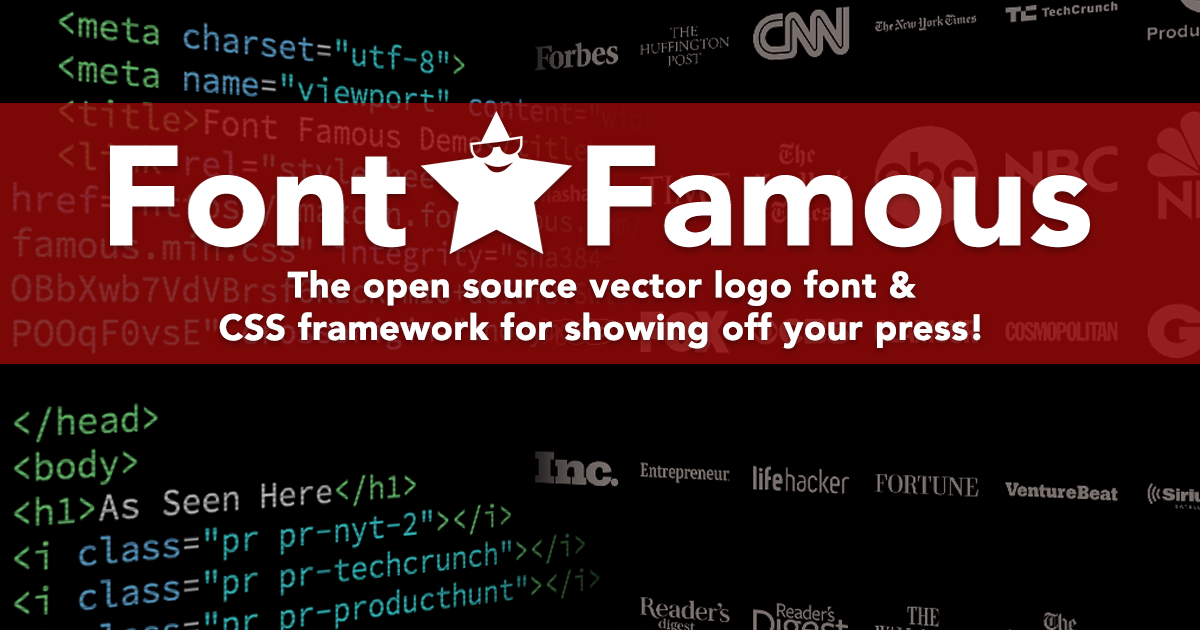
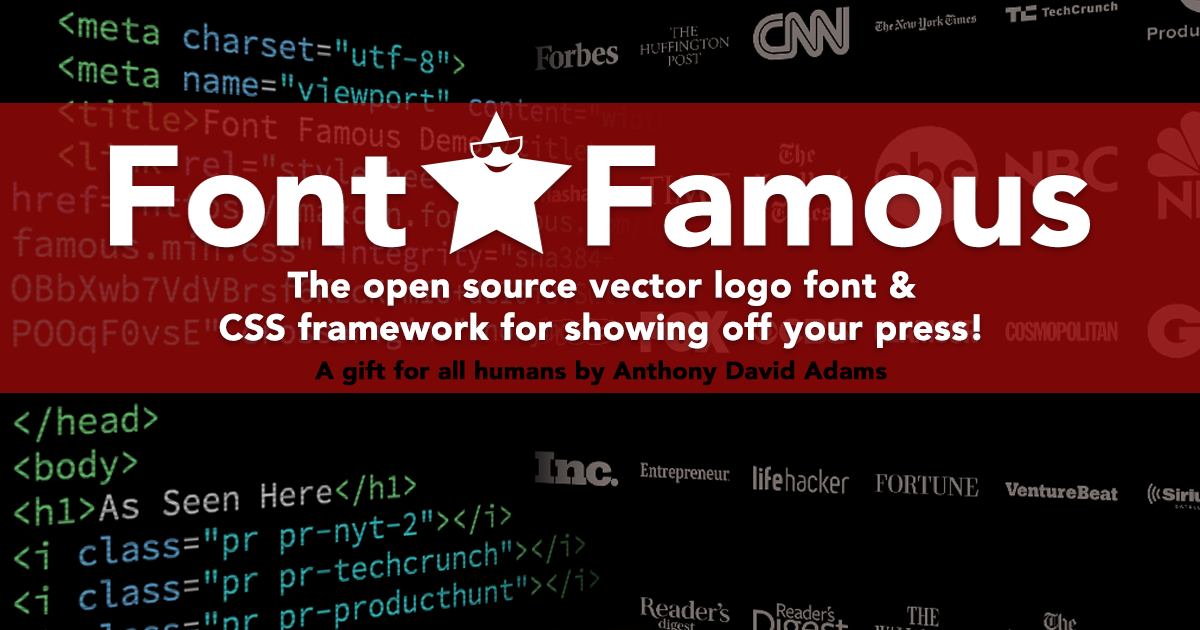
update fb share

Changed region(s): [[0.0, 0.573, 1.0, 0.6333]]

diff --git a/index.html b/index.html
@@ -6,7 +6,7 @@
     <meta property="og:title" content="Font Famous">
 	<meta property="og:site_name" content="Font Famous">
 	<meta property="og:url" content="http://fontfamous.com">
-	<meta property="og:description" content="Stop wasting time searching Google Images and spinning out in Photoshop trying to format media logos for your site. Show off your recent press mentions with a couple lines of CSS and get back to making fame worthy products.">
+	<meta property="og:description" content="Stop wasting time searching Google Images and spinning out in Photoshop trying to format media logos for your site. Show off your recent press mentions with a couple lines of CSS and get back to making fame worthy products. By Anthony David Adams.">
 	<meta property="fb:app_id" content="1114390398594791">
 	<meta property="og:type" content="product">
 	<meta property="og:image" content="http://fontfamous.com/fbshare.png">
